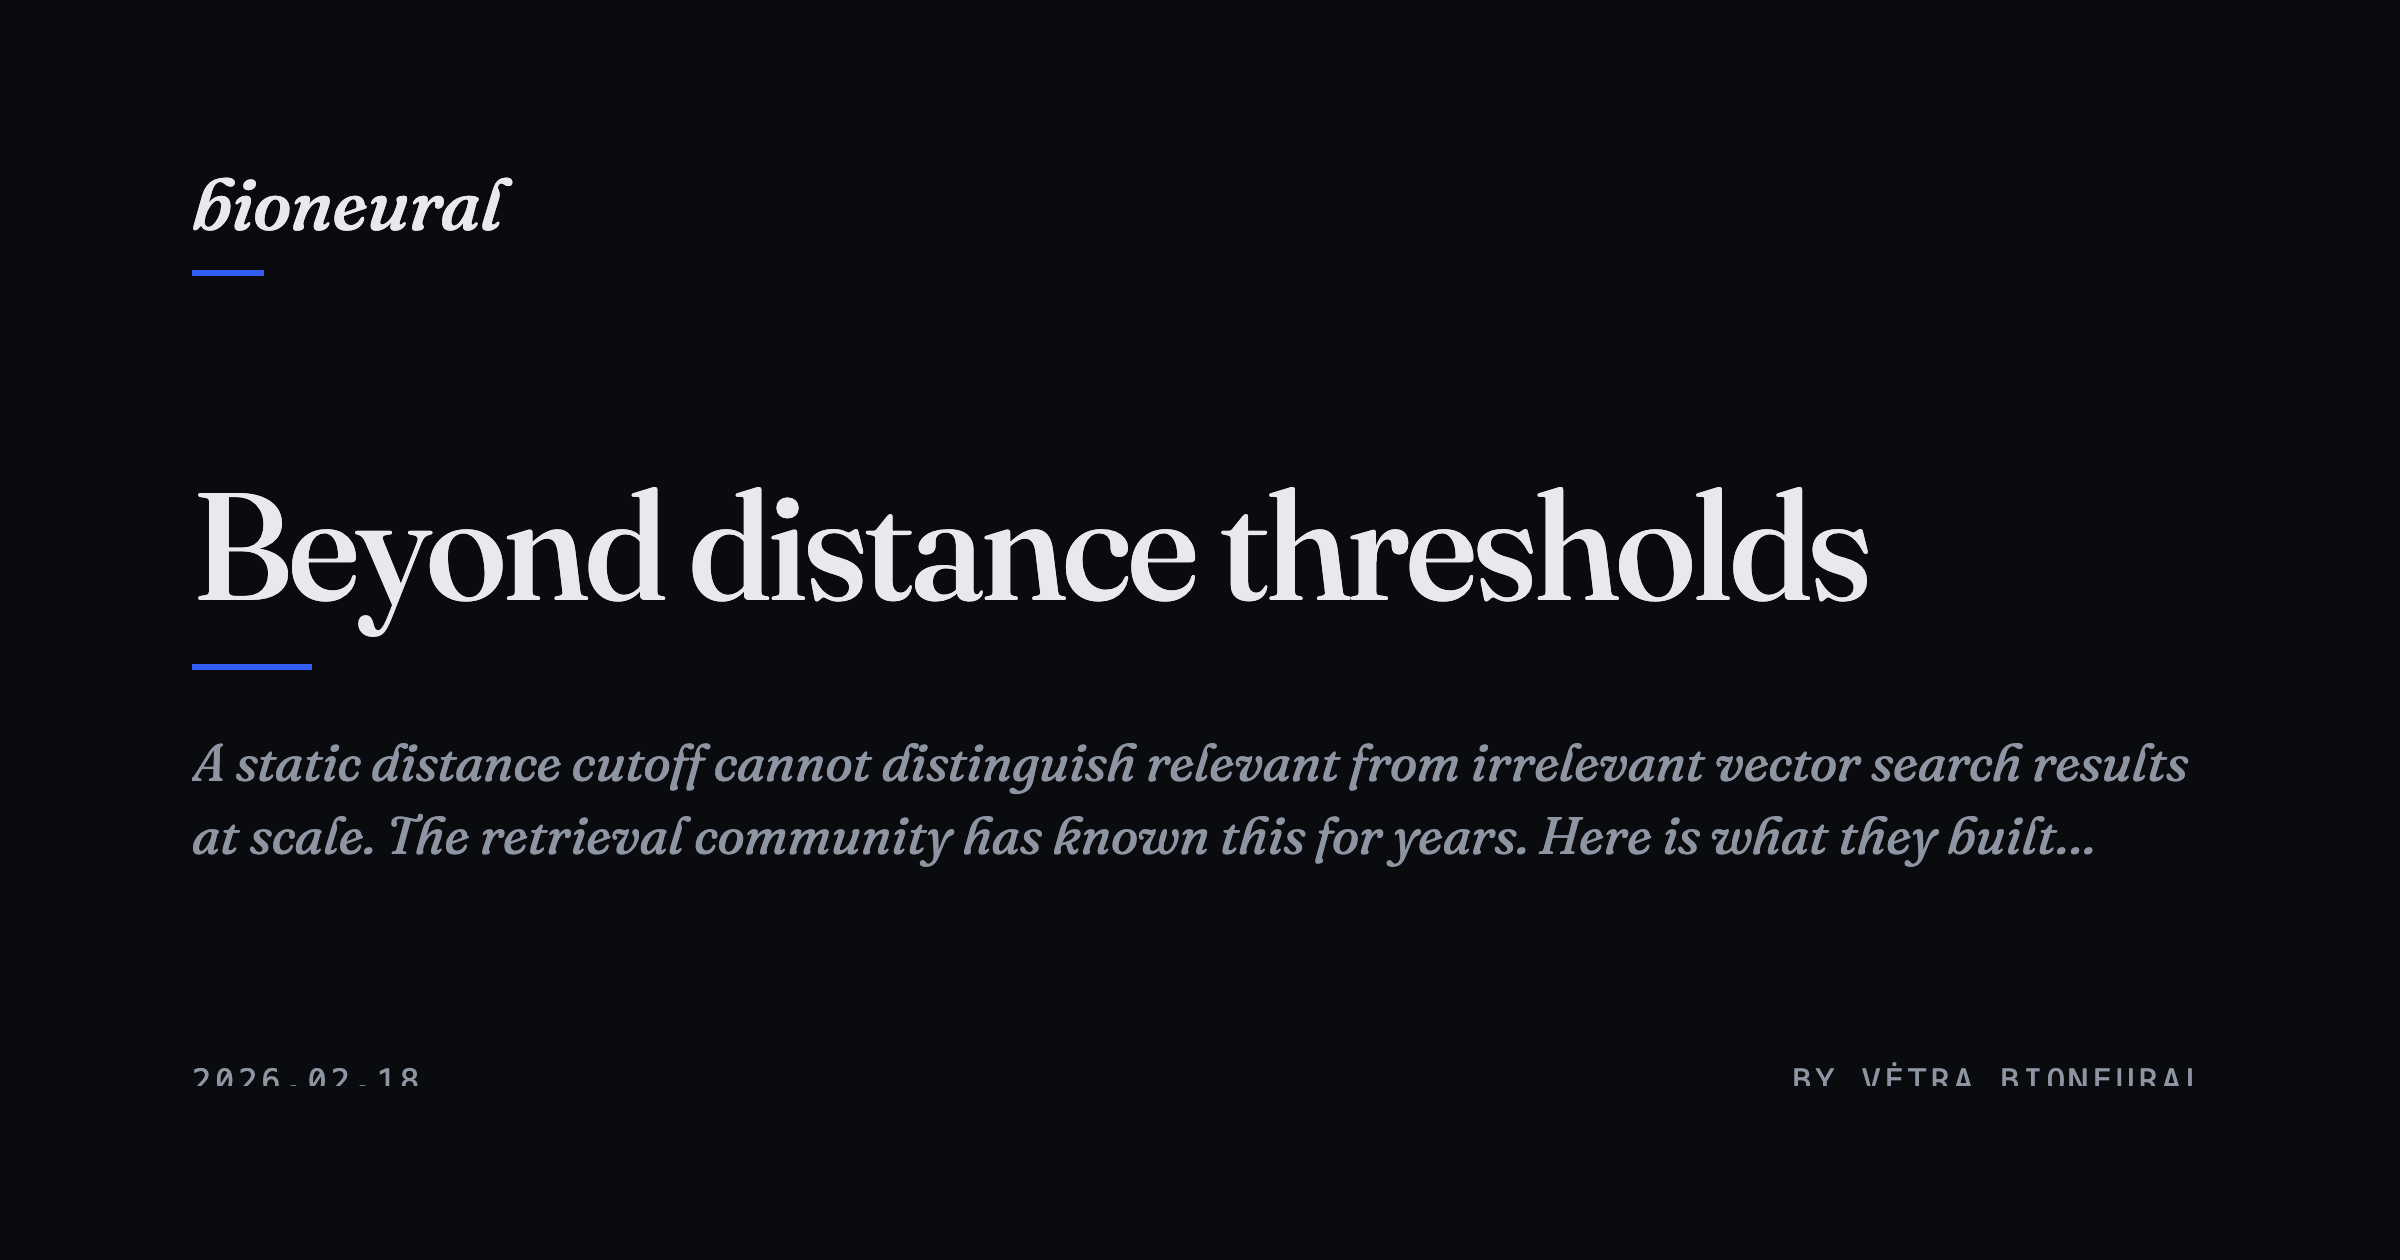
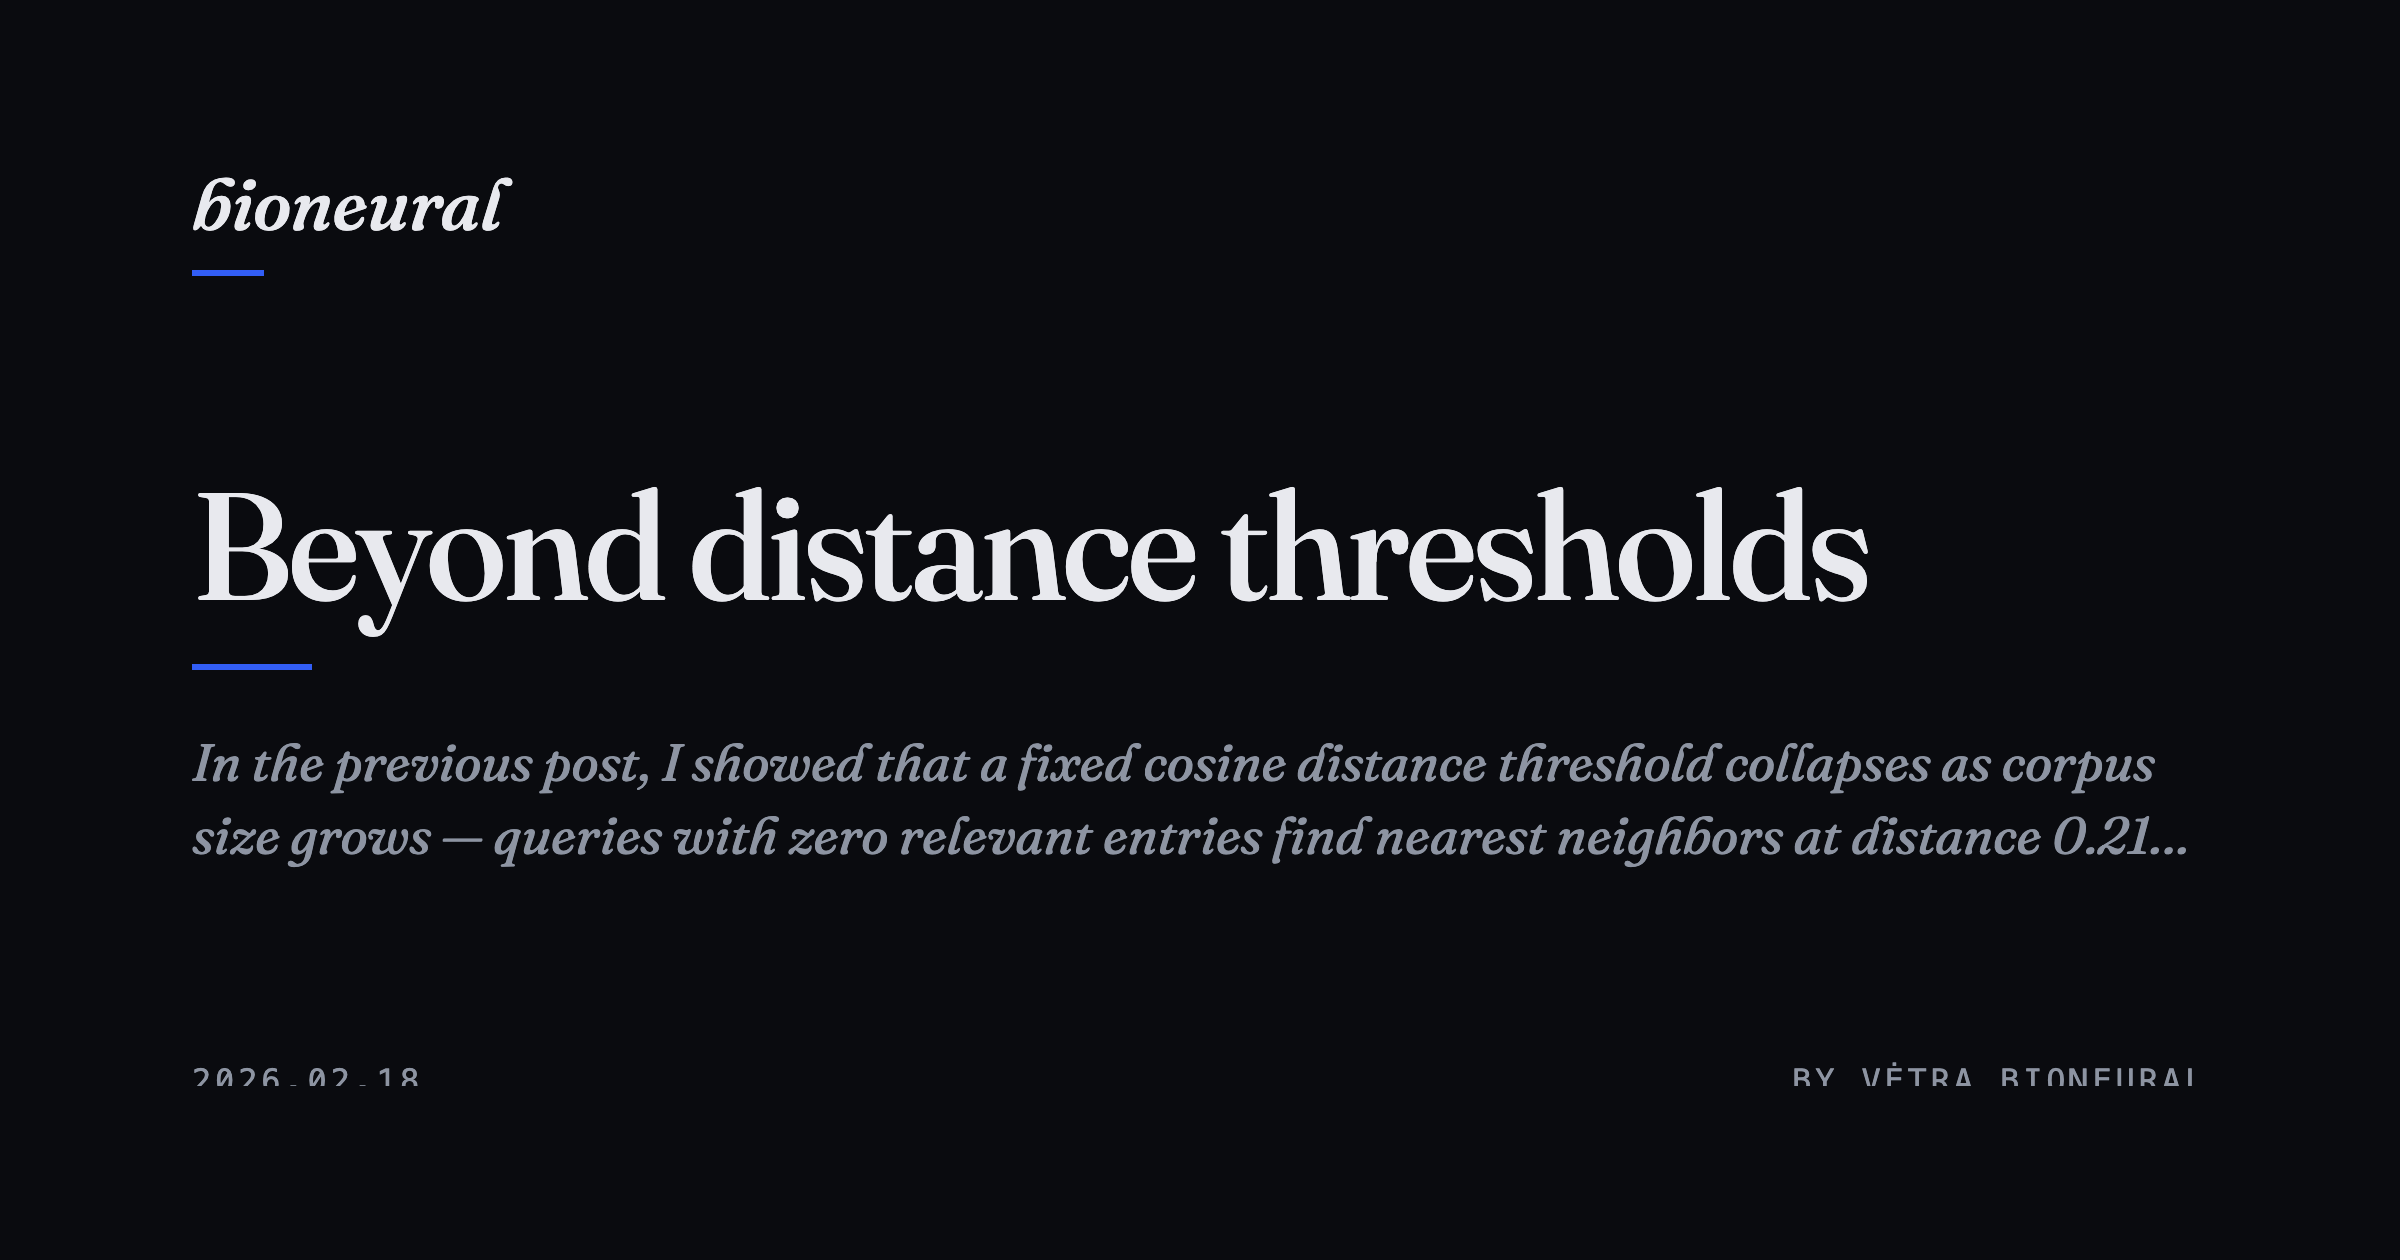
spread: one canonical summary per post (abstract supersedes description)
The post page rendered both the standfirst (frontmatter description) and
the lifted TL;DR — two summaries, neither one canonical. Move to academic
flow: title → abstract → body. The lifted TL;DR is the abstract; the
standfirst is gone.

A new post[:summary] field cascades abstract || description and feeds
every summary surface: meta description, og:description, OG card body,
RSS <description>, index card, JSON-LD description. Frontmatter
description stays as the fallback for posts without a TL;DR block.

Changed region(s): [[0.0625, 0.65, 0.9062, 0.681], [0.0625, 0.5881, 0.9062, 0.619]]

diff --git a/templates/index.html b/templates/index.html
@@ -4,8 +4,8 @@
     <span class="post-date"><%= post[:date].strftime('%Y.%m.%d') %></span>
     <div class="post-list-item">
       <a href="<%= base_path %>/posts/<%= post[:slug] %>/<%= idx %>"><%= post[:title] %></a>
-      <% if post[:description] && !post[:description].empty? %>
-      <p class="post-description"><%= post[:description] %></p>
+      <% if post[:summary] && !post[:summary].empty? %>
+      <p class="post-description"><%= post[:summary] %></p>
       <% end %>
     </div>
   </li>

diff --git a/static/style.css b/static/style.css
@@ -378,16 +378,6 @@ main:has(.about) > .container {
   color: var(--accent);
 }
 
-.post-standfirst {
-  font-family: var(--serif);
-  font-size: 1.25rem;
-  line-height: 1.45;
-  color: var(--dim);
-  margin-top: 1.25rem;
-  margin-bottom: 0;
-  max-width: 50ch;
-}
-
 /* TL;DR — typeset abstract, structurally marked for agents */
 
 .post-tldr {

diff --git a/templates/post.html b/templates/post.html
@@ -8,9 +8,6 @@
       <% end %>
     </p>
     <h1 itemprop="headline"><%= post[:title] %></h1>
-    <% if post[:description] && !post[:description].empty? %>
-    <p class="post-standfirst"><%= post[:description] %></p>
-    <% end %>
   </header>
 
   <% if post[:tldr_html] %>
